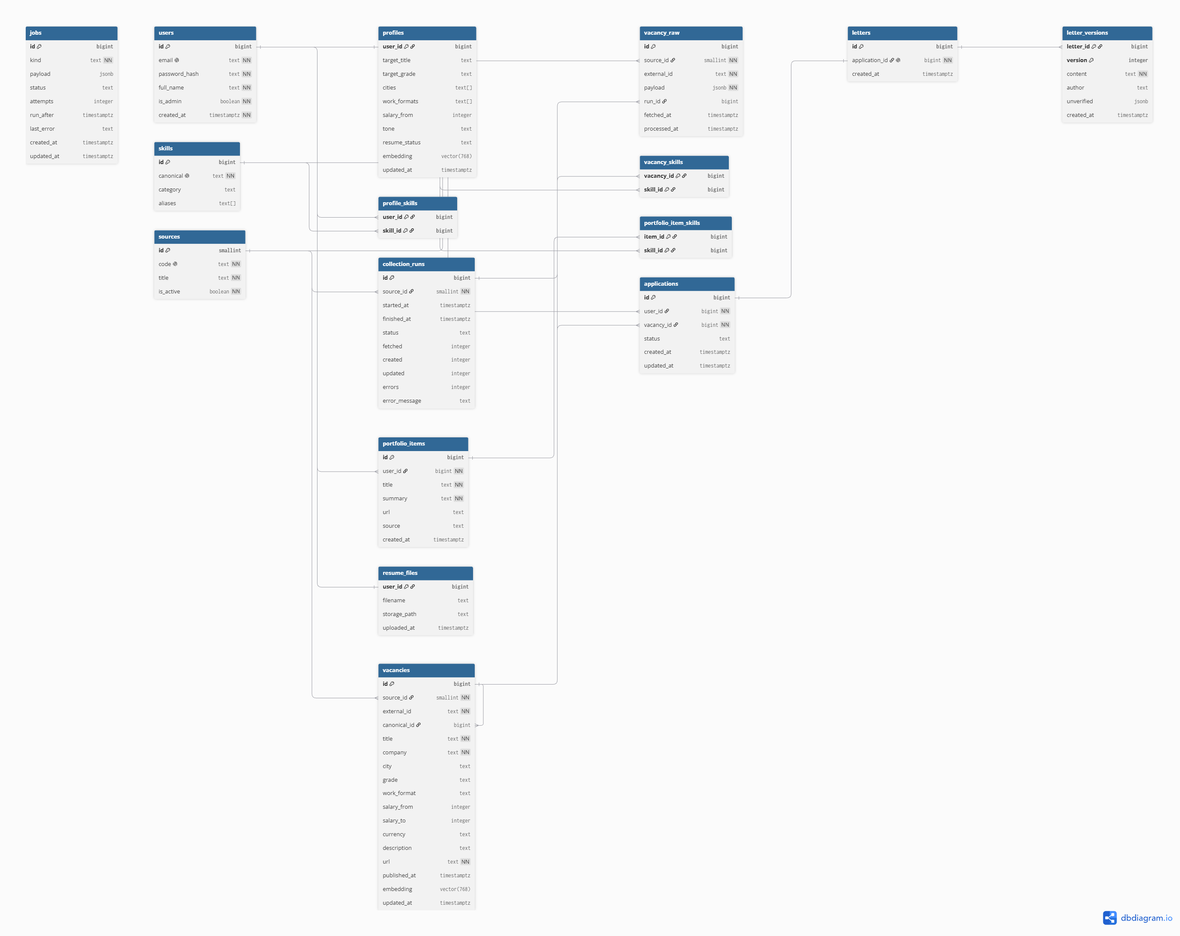
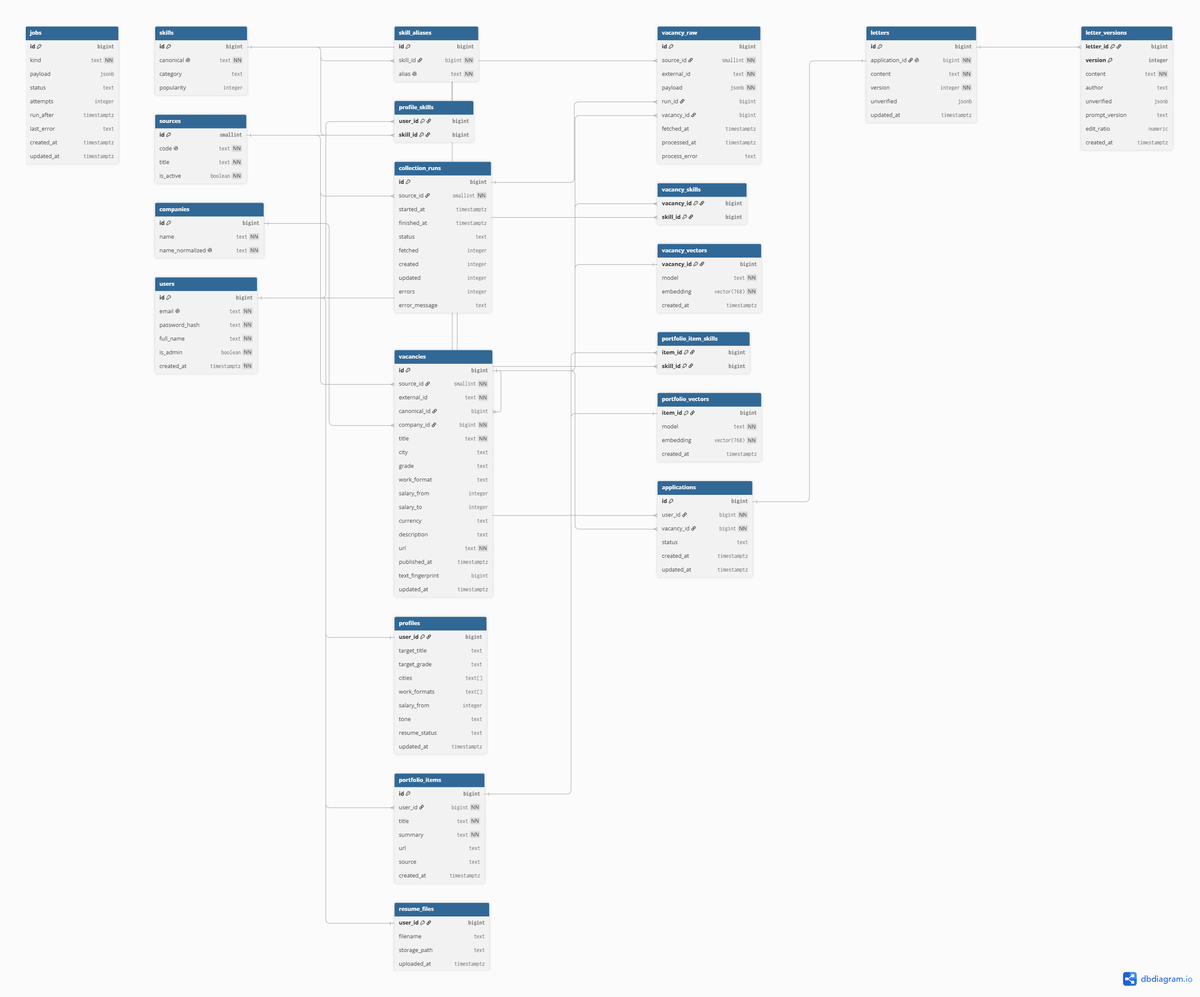
docs: схема базы и вопросы по общему документу

diff --git a/docs/week1_db_questions.md b/docs/week1_db_questions.md
@@ -1,130 +1,52 @@
-# База данных: что готово, что мне от вас нужно, какие решения приняты
+# База данных: статус, решения и вопросы
 
-Автор: архитектор (база данных).
+Автор: архитектор (база данных). Ответьте в своей строке. Если ответа не будет, я делаю по колонке «Если не ответите».
 
-**Как пользоваться файлом.** В разделе 3 вопросы по людям. Ответьте прямо в колонке «Ответ» в своих строках. Если ответа не будет, я делаю по колонке «Мой вариант по умолчанию», вас никто не блокирует. Если мой вариант вам не подходит, напишите в ответе, как нужно.
+## 1. Что готово
 
-## 1. Срочно (без этого застрянем)
+Ветка `DataBase`, папка `server/migrations/`:
+- `00001_init.sql`: `users`, `profiles`, расширение `vector`.
+- `00002_jobs_and_sources.sql`: `jobs` (очередь задач), `sources`, `collection_runs`, `vacancy_raw`.
+- `docs/db-schema.*`: схема всей базы (черновик).
 
-| Что | У кого | Зачем |
-|---|---|---|
-| С1: слить ветку `DataBase` в `main` | Старший | В ветке уже лежат таблицы `users` и `profiles`, без них нельзя делать вход и профиль. В `main` я работать не могу |
-| С3: хранение писем (вопрос ниже) | Старший | Таблицу писем нельзя создавать, пока не решено, где лежит текст письма |
-| С8: нужны ли навыки в `GET /me` к 11.10 | Старший, младший | В `openapi.yaml` у профиля есть поле `skills`, а таблицы навыков ещё нет |
-| Т1: в задаче сбора `source` называется `hh` или `headhunter` | Тестировщик | В базе источник называется `headhunter`. Если в задаче будет `hh`, сборщик не найдёт источник |
-| Т3: что хранит `vacancy_raw` | Тестировщик | Навыки (`key_skills`) есть только в полной карточке вакансии HH, не в списке |
-| Размер вектора (768 или 384) | Инженер по ML | Прописывается в схеме. Решение по плану в чт 08.10. Пока закладываю 768 |
-
-## 2. Что уже готово и можно использовать
-
-Файлы лежат в ветке `DataBase`, папка `server/migrations/`.
-
-| Файл | Таблицы | Кому нужно |
-|---|---|---|
-| `00001_init.sql` | `users`, `profiles`, расширение `vector` | Старшему (вход), младшему (профиль) |
-| `00002_jobs_and_sources.sql` | `jobs` (очередь задач), `sources`, `collection_runs`, `vacancy_raw` | Старшему (очередь), тестировщику (сборщик HH) |
-| `docs/db-schema.png` и `docs/db-schema.md` | Схема всей базы, черновик (все таблицы, включая будущие) | Всем: проверьте, хватает ли вашей части полей |
+Дальше: файлы с навыками, вакансиями, портфолио, письмами, откликами. Начну после ответов ниже и выбора модели для векторов.
 
 Что полезно знать про готовые таблицы:
-- **Почта** хранится так, как пришла, а уникальна **без учёта регистра** (`Ivan@mail.ru` и `ivan@mail.ru` один пользователь). Перед записью и поиском приводите почту к нижнему регистру.
-- **Регистрация** должна создавать пользователя и пустую строку в `profiles` в одной транзакции (у всех полей профиля есть значения по умолчанию, хватит вставить `user_id`).
-- **Зарплата** (`salary_from`) может быть `NULL`: это «не указана». Никогда не 0.
-- **Допустимые значения** (`junior/middle/senior`, `formal/neutral/friendly`, статусы) проверяет сама база: при ошибке в коде она откажет в записи.
-- **Профиль** удаляется вместе с пользователем (`ON DELETE CASCADE`).
+- Почта уникальна без учёта регистра: перед записью и поиском приводите её к нижнему регистру.
+- Регистрация создаёт пользователя и пустую строку в `profiles` в одной транзакции (хватит вставить `user_id`).
+- `salary_from` может быть `NULL` («не указана»), никогда не 0.
+- Допустимые значения проверяет база. Код должен проверять сам и отвечать понятным сообщением.
 
-Что ещё в работе:
+## 2. Вопросы
 
-| Что | Статус |
+| № | Кому | Вопрос | Если не ответите |
+|---|---|---|---|
+| С1 | Старшему | В вашем примере `GetLetter` у `letters` есть `content` и `version`. Делаем так: `letters` хранит последнюю версию, а `letter_versions` историю? | Так и делаю |
+| С2 | Старшему | Справочник навыков лежит в `server/data/skills.csv`. Кто пишет загрузку в базу при запуске сервера? | Файл пишу я, загрузчик на стороне сервера |
+| Т1 | Тестировщику | В задаче сбора `source` указан как `hh`, а в базе и API источник называется `headhunter`. Используем `headhunter`? | `headhunter` |
+| Т2 | Тестировщику | `vacancy_raw` хранит полную карточку из `GET /vacancies/{id}` (в ней описание и `key_skills`), а не краткую выжимку из списка? | Полная карточка |
+| Т3 | Тестировщику | Когда будут 7 образцов ответов HH в `server/internal/sources/testdata/hh/`? Нужны для разбора полей | Жду |
+| М1 | ML | Какая модель и размер вектора (768 или 384)? | `vector(768)`, поменять можно до 18.10 |
+
+## 3. Решения архитектора
+
+| № | Решение |
 |---|---|
-| `00003`: `skills`, `profile_skills` (нужны для `GET /me`), проверка `work_formats` | Пишу следующим |
-| `00004`: вакансии, векторы, портфолио, письма, отклики | Жду ответы С3, С4 и решение ML по модели |
-| Справочник навыков `server/data/skills.csv` | Пишу, нужен ответ С6 |
-| Разбор образцов HH (`docs/hh-fields.md`) | Жду 7 файлов от тестировщика в `server/internal/sources/testdata/hh/` |
-| Условия приёмки для А-5 (приведение данных) и А-9 (демо-набор) | Согласую с тестировщиком до пятницы |
-| Устав проекта | Не делался |
+| 1 | Повторный сбор вакансии обновляет запись в `vacancy_raw` (уникальна пара «источник + номер у источника»). Старая версия теряется |
+| 2 | Один источник: `headhunter`. Остальные добавим отдельным файлом (задача Т-4) |
+| 3 | `collection_runs`: поля как в API (`created`, `updated`, `errors`, `error_message`). Одна строка = один запуск задачи. Статус `partial`: есть ошибки, но часть вакансий сохранена |
+| 4 | Виды задач в очереди: `collect`, `normalize`, `embed`, `parse_resume`. Параметры в `jobs.payload` |
+| 5 | Зарплата `NULL`, если не указана или не распознана. Никогда не 0 и не угадывается |
+| 6 | Дубли вакансий не удаляются, а получают ссылку на основную копию (`canonical_id`). Поиск дублей делает приведение данных (А-5) |
+| 7 | Векторы в отдельных таблицах `vacancy_vectors` и `portfolio_vectors`, рядом хранится модель. Вектор профиля не хранится: берётся среднее по векторам проектов |
+| 8 | Навыки: `skills` и `skill_aliases` (варианты написания, уникальны без учёта регистра). Навыки из резюме сопоставляет сервер |
+| 9 | Компании в отдельной таблице `companies`, у вакансии `company_id` |
+| 10 | Письма: `letters` хранит последнюю версию, `letter_versions` историю: текст, задание для модели (`prompt_version`), доля изменённого текста (`edit_ratio`), непроверенные фрагменты |
+| 11 | Файл резюме на диске, в базе путь к нему. Новый файл заменяет старый |
+| 12 | `applications`: уникальна пара (`user_id`, `vacancy_id`), статусы проверяются в базе |
+| 13 | Личные данные только через `userID`: у каждой личной таблицы есть `user_id` или связь с ним |
+| 14 | Первый администратор назначается вручную SQL-запросом. Регистрация создаёт `is_admin = false` |
 
-## 3. Вопросы
+## 4. Сверка `openapi.yaml` с базой
 
-### 3.1. Старшему разработчику
-
-| № | Вопрос | Мой вариант по умолчанию | Ответ |
-|---|---|---|---|
-| С1 | Кто и когда сливает ветку `DataBase` в `main`? Мне в `main` работать нельзя | Работаю только в `DataBase`, слияние за вами | |
-| С2 | Каркас сервера совпадает со схемами уровней 1 и 2 из общего документа? Если есть расхождения, что исправляем: схему или каркас? | Считаю, что совпадает, пока не напишете о расхождениях | |
-| С3 | В вашем примере `GetLetter` у таблицы `letters` есть колонки `content` и `version`. Делаем так: `letters` хранит **последнюю** версию (`application_id`, `content`, `version`, `unverified`, `updated_at`), а отдельная таблица `letter_versions` хранит **историю** версий? | Так и делаю | |
-| С4 | Файл резюме (`POST /portfolio/resume`): хранить на диске или в базе? Новый файл заменяет старый | Таблица `resume_files` (одна строка на пользователя), в ней путь к файлу на диске | |
-| С5 | Как становится администратором первый пользователь (`is_admin`): вручную SQL-запросом, переменной окружения или seed-файлом? | Вручную SQL-запросом. Регистрация всегда создаёт `is_admin = false` | |
-| С6 | Справочник навыков лежит в `server/data/skills.csv` (колонки `canonical, category, aliases`, синонимы через `|`). Кто пишет загрузку из файла в базу при запуске сервера? | Файл пишу я, загрузчик пишете вы | |
-| С7 | Где лежит журнал архитектурных решений? Вы просили записать туда правило «личные данные только через `userID`» | Пишу решения в раздел 5 этого файла, перенесите куда нужно | |
-| С8 | (Старшему и младшему) В `openapi.yaml` у `Profile` обязательное поле `skills`, а в задаче младшего (СМ-2) `GET /me` и `PATCH /me` без навыков. Нужны ли навыки к 11.10, или `/me` пока отдаёт `skills: []`? | Выкладываю `skills` и `profile_skills` раньше остальных (00003), чтобы можно было сразу отдавать реальные навыки | |
-| С9 | Сервис резюме вернёт навыки строками (`["Go", "PostgreSQL"]`). Сопоставляет их со справочником (по названию и синонимам) сервер на Go? | Да, сервер, по таблице `skills` | |
-
-### 3.2. Инженеру по тестированию
-
-| № | Вопрос | Мой вариант по умолчанию | Ответ |
-|---|---|---|---|
-| Т1 | В задаче сбора в `payload` указан `source: "hh"` (твой файл, п. 3.5), а в базе и API источник называется `headhunter` (`sources.code`). Используем `headhunter`? | `headhunter` | |
-| Т2 | Одна строка в `collection_runs` = один запуск задачи сбора целиком (со всеми дроблёными по датам и регионам запросами)? | Да | |
-| Т3 | `vacancy_raw.payload` хранит **полную карточку** из `GET /vacancies/{id}` (в ней описание и `key_skills`), а краткую выжимку из списка не храним? | Да, полная карточка. Запись в `vacancy_raw` создаётся после получения карточки | |
-| Т4 | Когда `collection_runs.status = partial`? | `partial`: есть ошибки (`errors > 0`), но часть вакансий сохранена (`created + updated > 0`) | |
-| Т5 | Нужно ли хранить, указана ли зарплата до вычета налога (у HH `salary.gross`)? | Пока не храню, добавлю по образцам | |
-
-### 3.3. Инженеру по машинному обучению
-
-| № | Вопрос | Мой вариант по умолчанию | Ответ |
-|---|---|---|---|
-| М1 | Какая модель выбрана и какой размер вектора (768 или 384)? Нужно до чт 08.10 для схемы базы | `vector(768)`. Если выберете 384, поменяю до 18.10 | |
-
-### 3.4. Младшему разработчику
-
-Блокирующих вопросов нет. Только С8 выше: нужны ли навыки в `/me`.
-
-## 4. Уже решено по вашим файлам (отвечать не нужно)
-
-1. Образ Postgres: `pgvector/pgvector:pg16` (файл старшего). Расширение `vector` в `00001` поэтому будет работать.
-2. Миграции применяются при запуске сервера (goose встроен в программу), файлы лежат в `server/migrations`.
-3. Автоматическая проверка на GitHub применяет миграции на пустой базе.
-4. Личные данные читаются только через `userID`, чужая запись даёт 404 (файл старшего, п. 3.1). Поэтому у каждой личной таблицы есть `user_id` или связь с ним: `profiles.user_id`, `portfolio_items.user_id`, `applications.user_id`, письма через `applications`.
-5. Векторы нормированы, расстояние косинусное (файл ML). В базе индекс будет `vector_cosine_ops`.
-6. Сервис моделей возвращает `model` и `dim`, сервер хранит их вместе с вектором. В базе рядом с каждым вектором будет колонка `embedding_model`.
-7. `/resume/parse` возвращает `text`, `skills` (строками) и `projects` (`title`, `summary`). Проекты попадают в `portfolio_items` с `source = resume`.
-8. Приведение данных и поиск дублей вакансий делает архитектор (задача А-5), не ML.
-9. Задача сбора: `{"kind": "collect", "payload": {"source": ..., "date_from": ...}}`. Параметры дробления запросов лежат в `jobs.payload` (jsonb), отдельных колонок не нужно. HeadHunter отдаёт не больше 2000 вакансий на запрос, поэтому сборщик дробит запросы сам.
-
-## 5. Решения архитектора (журнал; если с чем-то не согласны, напишите)
-
-| № | Решение | Что это значит для вас |
-|---|---|---|
-| 1 | Повторный сбор вакансии **обновляет** запись в `vacancy_raw` (уникальна пара «источник + номер вакансии у источника») | Повторный запуск сбора не плодит дубли. Минус: старая версия ответа теряется (для учебного проекта допустимо) |
-| 2 | Пока заведён только источник `headhunter` | Остальные источники добавим отдельным файлом (задача Т-4) |
-| 3 | `sources.code = headhunter`, как в API | В коде и задачах используйте именно `headhunter`, не `hh` |
-| 4 | `collection_runs` приведён к полям API: `created`, `updated`, `errors`, `error_message`, статус `partial` | Адрес `/admin/collection-runs` читает таблицу почти без преобразований |
-| 5 | В очереди задач есть вид `parse_resume` | Разбор резюме идёт через очередь, статус виден в `profile.resume_status` |
-| 6 | `applications`: уникальна пара (`user_id`, `vacancy_id`) | Без этого невозможен ответ 409 `application_exists` |
-| 7 | Новый файл резюме заменяет старый (`resume_files`, одна строка на пользователя) | Старые файлы не накапливаются |
-| 8 | Вектор по умолчанию `vector(768)`, рядом хранится `embedding_model` | Модель можно сменить, по этому полю видно, какие векторы пересчитать |
-| 9 | Расширение `vector` включено в `00001` | Достаточно образа с pgvector |
-| 10 | Зарплата в базе `NULL`, если не указана. Нераспознанная зарплата тоже `NULL`, не угадывается | Клиентская часть показывает «не указана», а не «0 ₽» |
-| 11 | Дубли вакансий: колонка `vacancies.canonical_id` (`NULL` у основной копии, у дубля ссылка на основную) | Из неё считаются `also_on` в API и `duplicates_share` в админке |
-| 12 | В `profiles.work_formats` добавляю проверку допустимых значений (`office`, `remote`, `hybrid`) в `00003` | Это вторая линия защиты. Проверка в коде всё равно нужна, чтобы пользователь получил понятное сообщение |
-| 13 | Письма: `letters.application_id` уникален, `letter_id` в отклике (`Application`) отдаётся через `join` | Нет циклической связи между таблицами |
-
-## 6. Что я жду и что отдам
-
-| Что | От кого / кому | Когда |
-|---|---|---|
-| Слияние `DataBase` в `main` | Старший | Как можно раньше |
-| Ответы на вопросы раздела 3 | Старший, тестировщик, ML | До 08.10 (блокирующие вопросы из раздела 1 раньше) |
-| 7 образцов ответов HH | От тестировщика мне | 07.10 |
-| Размер вектора | От ML мне | 08.10 |
-| `00003` (`skills`, `profile_skills`) | От меня старшему, младшему | После ответа на С8 |
-| `00004` (вакансии, письма, портфолио, отклики) | От меня всем | Согласовать вид таблиц до 14.10, реализация к 18.10 |
-| Условия приёмки для А-5 и А-9 | Вместе с тестировщиком | До 09.10 |
-
-## 7. Замечания к `openapi.yaml` (результат сверки с базой)
-
-1. Совпадают с базой: `User`, `Me`, `Profile` (все поля и `nullable`).
-2. Считаются на лету, в базе не хранятся: `score`, `explanation`, `DataQuality`, `last_success_at`.
-3. Все `nullable`-поля `Vacancy` и `Profile` помечены верно (зарплата `null`, не `0`).
-4. Админские адреса отдают 403, остальные чужие данные 404: согласуется с правилом из описания.
-5. Названия источников в API (`headhunter`, `superjob`) совпадают с `sources.code` в базе.
+Поля `User`, `Me`, `Profile` совпадают с таблицами. Считаются на лету и в базе не хранятся: `score`, `explanation`, `DataQuality`. Все `nullable`-поля `Vacancy` и `Profile` помечены верно. Названия источников в API совпадают с `sources.code`.
